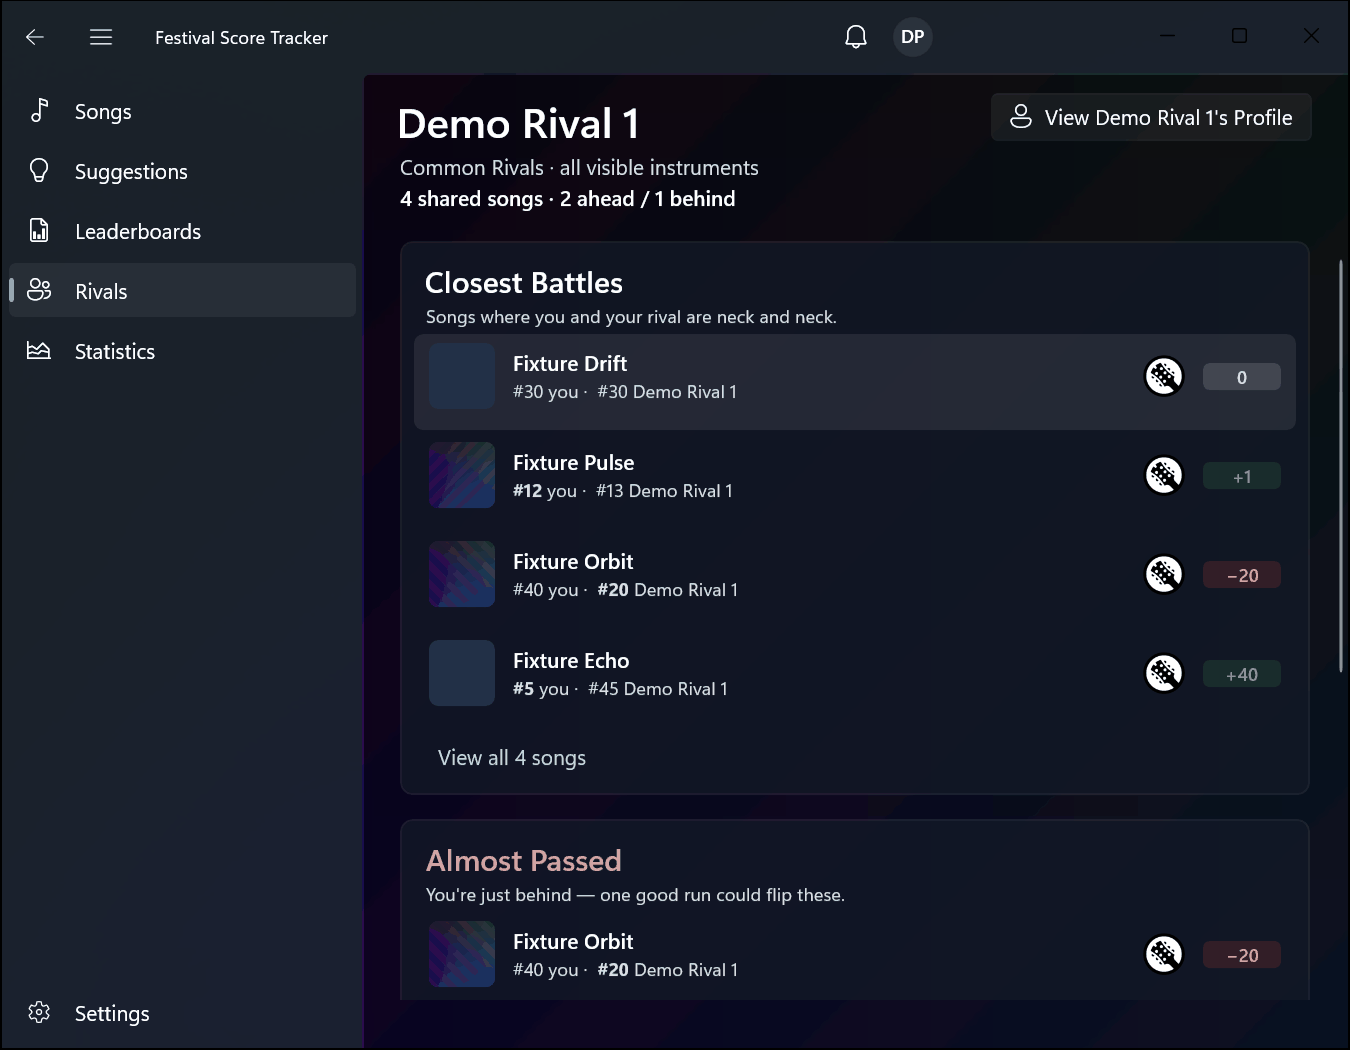
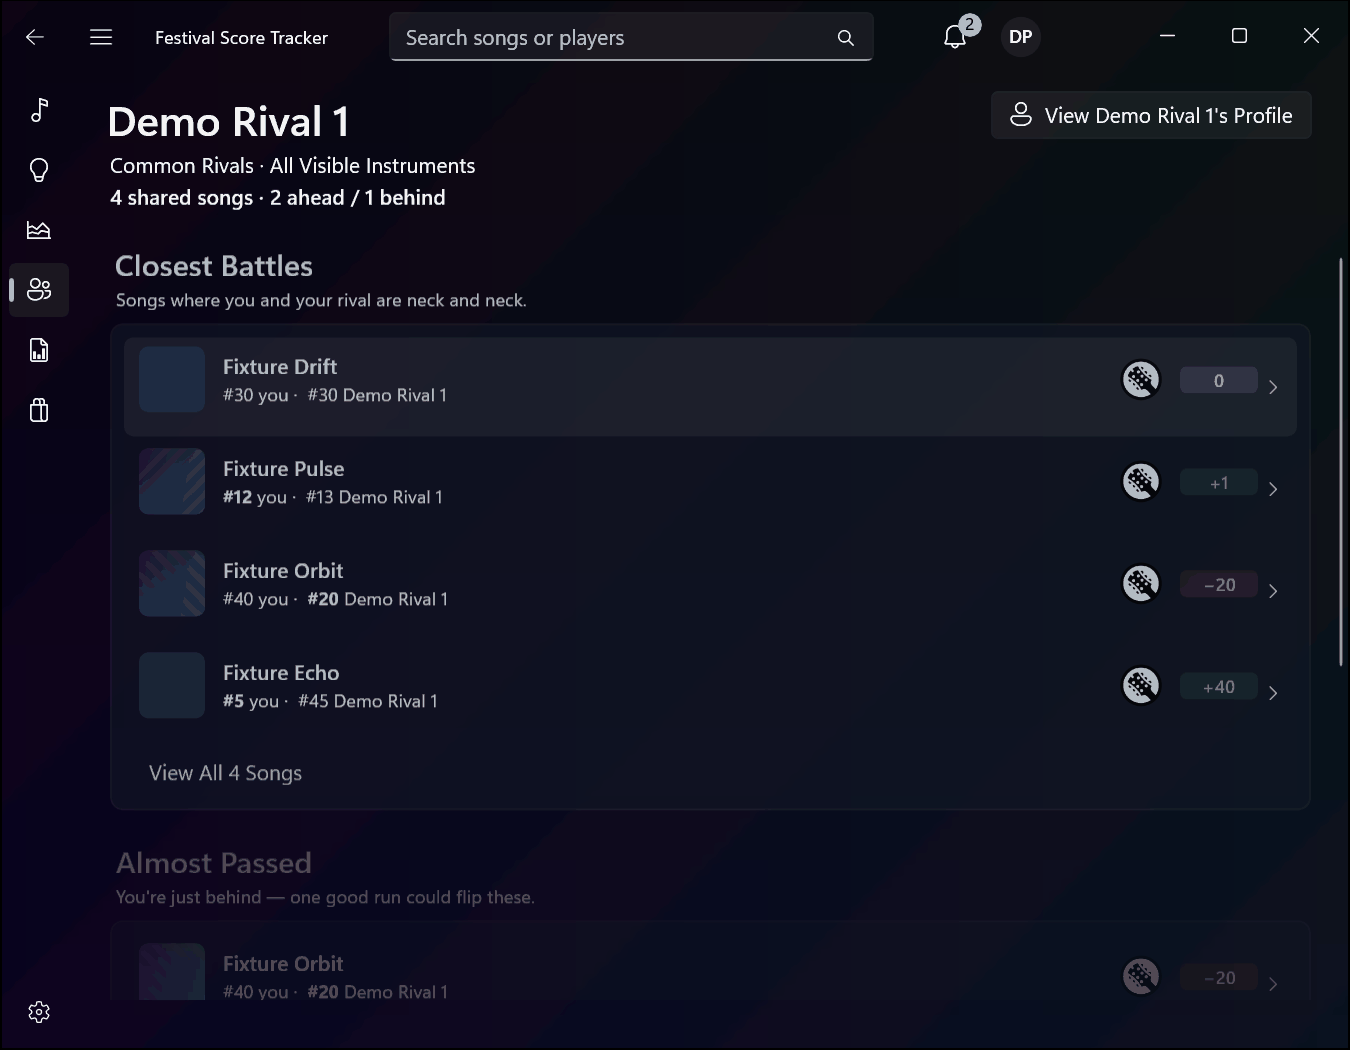
Windows Paths/Suggestions/Rivals: red Reset, in-card chevrons, Title Case (7.3, 7.10, 7.16)
Claude-Session: https://claude.ai/code/session_01M7chxMRa5N8j2VVNsjU9cZ

diff --git a/windows/Festival.App/Pages/SuggestionsPage.xaml b/windows/Festival.App/Pages/SuggestionsPage.xaml
@@ -119,8 +119,25 @@
                             </ScrollViewer>
                             <!-- Switches apply live; Reset restores the defaults. Light dismiss / Esc closes. -->
                             <Grid Grid.Row="2" Padding="16,12,16,16" BorderThickness="0,1,0,0" BorderBrush="{ThemeResource FSTCardStrokeBrush}">
+                                <!-- Web Modal reset: a full-width red (btnDanger #C62828) button (batch 7.10). -->
                                 <Button Content="Reset" HorizontalAlignment="Stretch" Command="{x:Bind ViewModel.FilterDraft.ResetCommand}"
-                                        AutomationProperties.AutomationId="fst.suggestions.filter.reset" />
+                                        AutomationProperties.Name="Reset Suggestion Filters"
+                                        AutomationProperties.AutomationId="fst.suggestions.filter.reset">
+                                    <Button.Resources>
+                                        <SolidColorBrush x:Key="ButtonBackground" Color="#FFC62828" />
+                                        <SolidColorBrush x:Key="ButtonBackgroundPointerOver" Color="#FFD84343" />
+                                        <SolidColorBrush x:Key="ButtonBackgroundPressed" Color="#FFA82020" />
+                                        <SolidColorBrush x:Key="ButtonBackgroundDisabled" Color="#59C62828" />
+                                        <SolidColorBrush x:Key="ButtonForeground" Color="#FFFFFFFF" />
+                                        <SolidColorBrush x:Key="ButtonForegroundPointerOver" Color="#FFFFFFFF" />
+                                        <SolidColorBrush x:Key="ButtonForegroundPressed" Color="#E6FFFFFF" />
+                                        <SolidColorBrush x:Key="ButtonForegroundDisabled" Color="#99FFFFFF" />
+                                        <SolidColorBrush x:Key="ButtonBorderBrush" Color="#FFC62828" />
+                                        <SolidColorBrush x:Key="ButtonBorderBrushPointerOver" Color="#FFD84343" />
+                                        <SolidColorBrush x:Key="ButtonBorderBrushPressed" Color="#FFA82020" />
+                                        <SolidColorBrush x:Key="ButtonBorderBrushDisabled" Color="Transparent" />
+                                    </Button.Resources>
+                                </Button>
                             </Grid>
                         </Grid>
                     </Flyout>

diff --git a/windows/Festival.App/Controls/RivalSongRowView.xaml b/windows/Festival.App/Controls/RivalSongRowView.xaml
@@ -13,6 +13,10 @@
             <RowDefinition Height="Auto" />
             <RowDefinition Height="Auto" />
         </Grid.RowDefinitions>
+        <Grid.ColumnDefinitions>
+            <ColumnDefinition Width="*" />
+            <ColumnDefinition Width="Auto" />
+        </Grid.ColumnDefinitions>
 
         <Grid ColumnSpacing="12">
             <Grid.ColumnDefinitions>
@@ -85,5 +89,8 @@
                 <TextBlock Text="{x:Bind Item.RivalScoreText, Mode=OneWay}" Style="{StaticResource CaptionTextBlockStyle}" HorizontalAlignment="Right" />
             </StackPanel>
         </Grid>
+        <!-- In-card chevron: the row opens a page (batch 7.3). -->
+        <FontIcon Grid.Column="1" Glyph="&#xE76C;" FontSize="12" VerticalAlignment="Center" Margin="4,0,0,0"
+                  Foreground="{ThemeResource FSTSecondaryTextBrush}" AutomationProperties.AccessibilityView="Raw" Grid.RowSpan="2" />
     </Grid>
 </UserControl>

diff --git a/windows/Festival.App/Pages/RivalsPage.xaml b/windows/Festival.App/Pages/RivalsPage.xaml
@@ -83,9 +83,9 @@
                     </SelectorBarItem>
                 </SelectorBar>
                 <ComboBox ItemsSource="{x:Bind ViewModel.MetricLabels}" SelectedIndex="{x:Bind ViewModel.MetricIndex, Mode=TwoWay}"
-                          VerticalAlignment="Center" MinWidth="150" Header="{x:Null}" PlaceholderText="Rank by"
+                          VerticalAlignment="Center" MinWidth="150" Header="{x:Null}" PlaceholderText="Rank By"
                           Visibility="{x:Bind ViewModel.ShowMetricPicker, Mode=OneWay}"
-                          AutomationProperties.Name="Rank by" AutomationProperties.AutomationId="fst.rivals.rankBy" />
+                          AutomationProperties.Name="Rank By" AutomationProperties.AutomationId="fst.rivals.rankBy" />
                 <controls:QuickLinksMenuButton x:Name="QuickLinksMenu" />
             </controls:WrapPanel>
         </Grid>

diff --git a/windows/Festival.App/Pages/RivalryPage.xaml b/windows/Festival.App/Pages/RivalryPage.xaml
@@ -45,7 +45,7 @@
             <StackPanel x:Name="Actions" Grid.Column="1" Orientation="Horizontal" Spacing="8" VerticalAlignment="Top">
                 <ComboBox ItemsSource="{x:Bind ViewModel.SortLabels}" SelectedIndex="{x:Bind ViewModel.SortIndex, Mode=TwoWay}"
                           MinWidth="170" Visibility="{x:Bind ViewModel.ShowContent, Mode=OneWay}"
-                          AutomationProperties.Name="Sort songs" AutomationProperties.AutomationId="fst.rivalry.sort" />
+                          AutomationProperties.Name="Sort Songs" AutomationProperties.AutomationId="fst.rivalry.sort" />
                 <Button Click="OnViewProfile" AutomationProperties.Name="{x:Bind ViewModel.ViewProfileLabel, Mode=OneWay}"
                         AutomationProperties.AutomationId="fst.rivalry.view-profile">
                     <StackPanel Orientation="Horizontal" Spacing="8">

diff --git a/windows/Festival.App/Controls/SongPathsView.xaml b/windows/Festival.App/Controls/SongPathsView.xaml
@@ -110,7 +110,7 @@
                 <Grid x:Name="TableHeader" Padding="13,4,25,4" ColumnSpacing="10" AutomationProperties.AccessibilityView="Raw" />
                 <ScrollViewer Grid.Row="1" Padding="0,0,12,0">
                     <StackPanel Spacing="8">
-                        <TextBlock Text="Paths not available" Visibility="{x:Bind ViewModel.HasNoActivations, Mode=OneWay}"
+                        <TextBlock Text="Paths Not Available" Visibility="{x:Bind ViewModel.HasNoActivations, Mode=OneWay}"
                                    HorizontalAlignment="Center" Foreground="{ThemeResource FSTSecondaryTextBrush}" />
                         <ItemsRepeater x:Name="Activations" ItemsSource="{x:Bind ViewModel.Rows, Mode=OneWay}" ElementPrepared="OnActivationPrepared"
                                        controls:FadeIn.Stagger="True" controls:FadeIn.RowHeight="48"

diff --git a/windows/Festival.App/Controls/RivalRowView.xaml b/windows/Festival.App/Controls/RivalRowView.xaml
@@ -9,6 +9,7 @@
         <Grid.ColumnDefinitions>
             <ColumnDefinition Width="4" />
             <ColumnDefinition Width="*" />
+            <ColumnDefinition Width="Auto" />
         </Grid.ColumnDefinitions>
         <Border Width="4" CornerRadius="2" Margin="0,4" Background="{x:Bind local:RivalsUi.Accent(Item.IsWinning), Mode=OneWay}" />
         <Grid Grid.Column="1" RowSpacing="4" ColumnSpacing="8" VerticalAlignment="Center">
@@ -40,5 +41,8 @@
                 </Border>
             </local:WrapPanel>
         </Grid>
+        <!-- In-card chevron: the row opens a page (batch 7.3). -->
+        <FontIcon Grid.Column="2" Glyph="&#xE76C;" FontSize="12" VerticalAlignment="Center" Margin="4,0,0,0"
+                  Foreground="{ThemeResource FSTSecondaryTextBrush}" AutomationProperties.AccessibilityView="Raw" />
     </Grid>
 </UserControl>

diff --git a/windows/Festival.Core/ViewModels/RivalDetailViewModels.cs b/windows/Festival.Core/ViewModels/RivalDetailViewModels.cs
@@ -287,7 +287,7 @@ public sealed partial class AllRivalsViewModel : RivalPageViewModel
     /// <param name="session">Shared session.</param>
     /// <param name="route">Route with the scope.</param>
     public AllRivalsViewModel(FestivalSession session, AppRoute.AllRivals route)
-        : base(session, "all-rivals", "Rivals unavailable") => RouteScope = route.Scope;
+        : base(session, "all-rivals", "Rivals Unavailable") => RouteScope = route.Scope;
 
     /// <summary>Scope from the route (may be Settings-derived).</summary>
     public RivalScope RouteScope { get; }
@@ -389,7 +389,7 @@ public sealed record RivalCategoryItem(RivalCategory Category, List<RivalSongIte
     /// <summary>Web <c>rivals.detail.viewAll</c>.</summary>
     public string SeeAllText => Category.Songs.Count == 1
         ? "View 1 song"
-        : string.Create(CultureInfo.CurrentCulture, $"View all {Category.Songs.Count:N0} songs");
+        : string.Create(CultureInfo.CurrentCulture, $"View All {Category.Songs.Count:N0} Songs");
 
     /// <summary>UIA automation ID.</summary>
     public string AutomationId => "fst.rival-detail.category." + Category.Key;
@@ -408,7 +408,7 @@ public sealed partial class RivalDetailViewModel : RivalPageViewModel
     /// <param name="session">Shared session.</param>
     /// <param name="route">Route.</param>
     public RivalDetailViewModel(FestivalSession session, AppRoute.RivalDetail route)
-        : base(session, "rival-detail", "Rivals unavailable")
+        : base(session, "rival-detail", "Rivals Unavailable")
     {
         Route = route;
         rivalName = route.Name;
@@ -477,9 +477,9 @@ public static class RivalDetailText
     {
         RivalScope.Leaderboard l => $"{l.Instrument.Label()} · Leaderboard ({l.RankBy.Label()})",
         RivalScope.Combo c => $"{RivalCombo.Label(c.Token)}: {string.Join(", ", c.Instruments.Select(i => i.Label()))}",
-        RivalScope.Song s when s.IsCommon && s.Instruments.SequenceEqual(visible) => "Common Rivals · all visible instruments",
+        RivalScope.Song s when s.IsCommon && s.Instruments.SequenceEqual(visible) => "Common Rivals · All Visible Instruments",
         RivalScope.Song s => string.Join(", ", s.Instruments.Select(i => i.Label())),
-        _ => "All visible instruments",
+        _ => "All Visible Instruments",
     };
 }
 #endregion
@@ -494,7 +494,7 @@ public sealed partial class RivalryViewModel : RivalPageViewModel
     /// <param name="session">Shared session.</param>
     /// <param name="route">Route.</param>
     public RivalryViewModel(FestivalSession session, AppRoute.Rivalry route)
-        : base(session, "rivalry", "Rivals unavailable")
+        : base(session, "rivalry", "Rivals Unavailable")
     {
         Route = route;
         rivalName = route.Name;

diff --git a/windows/Festival.App/Controls/SuggestionSongRow.cs b/windows/Festival.App/Controls/SuggestionSongRow.cs
@@ -57,6 +57,7 @@ public sealed partial class SuggestionSongRow : Button
         root.ColumnDefinitions.Add(new ColumnDefinition { Width = new GridLength(ArtSize) });
         root.ColumnDefinitions.Add(new ColumnDefinition { Width = new GridLength(1, GridUnitType.Star) });
         root.ColumnDefinitions.Add(new ColumnDefinition { Width = GridLength.Auto });
+        root.ColumnDefinitions.Add(new ColumnDefinition { Width = GridLength.Auto });
         root.RowDefinitions.Add(new RowDefinition { Height = GridLength.Auto });
         root.RowDefinitions.Add(new RowDefinition { Height = GridLength.Auto });
         var artFrame = new Border
@@ -70,6 +71,16 @@ public sealed partial class SuggestionSongRow : Button
         root.Children.Add(artFrame);
         root.Children.Add(text);
         root.Children.Add(metadata);
+        // In-card chevron: the row opens Song Detail (batch 7.3).
+        var chevron = new FontIcon
+        {
+            Glyph = "\uE76C", FontSize = 12, VerticalAlignment = VerticalAlignment.Center, Margin = new Thickness(12, 0, 0, 0),
+            Foreground = (Brush)Application.Current.Resources["FSTSecondaryTextBrush"],
+        };
+        AutomationProperties.SetAccessibilityView(chevron, Microsoft.UI.Xaml.Automation.Peers.AccessibilityView.Raw);
+        Grid.SetColumn(chevron, 3);
+        Grid.SetRowSpan(chevron, 2);
+        root.Children.Add(chevron);
         Content = root;
 
         title.TextStyle = TitleStyle;

diff --git a/windows/Festival.Core/ViewModels/RivalsViewModels.cs b/windows/Festival.Core/ViewModels/RivalsViewModels.cs
@@ -96,7 +96,7 @@ public sealed partial class RivalSectionViewModel : ObservableObject
         Icon = icon;
         ViewAllRoute = new AppRoute.AllRivals(scope);
         this.load = load;
-        Status = new ServiceStatusViewModel("rivals:" + id, title + " unavailable", () => LoadAsync(), time);
+        Status = new ServiceStatusViewModel("rivals:" + id, title + " Unavailable", () => LoadAsync(), time);
     }
 
     /// <summary>Stable section ID.</summary>
@@ -115,10 +115,10 @@ public sealed partial class RivalSectionViewModel : ObservableObject
     public string IconFile => Icon?.IconFile() ?? "";
 
     /// <summary>Accessible name of the See All link.</summary>
-    public string SeeAllName => "See all " + Title;
+    public string SeeAllName => "See All " + Title;
 
     /// <summary>Accessible name of the View All Rivals button below the rows (distinct from the header link).</summary>
-    public string ViewAllName => "View all " + Title;
+    public string ViewAllName => "View All " + Title;
 
     /// <summary>All Rivals route for this scope.</summary>
     public AppRoute.AllRivals ViewAllRoute { get; }

diff --git a/windows/Festival.Core/ViewModels/SongPathsViewModel.cs b/windows/Festival.Core/ViewModels/SongPathsViewModel.cs
@@ -28,7 +28,7 @@ public sealed partial class SongPathsViewModel : ObservableObject
         Instruments = [.. instruments];
         InstrumentLabels = [.. instruments.Select(i => i.Label())];
         showText = session.Settings.PathDefaultView == PathDisplayMode.Text;
-        Status = new ServiceStatusViewModel($"paths:{song.SongId}", "Path unavailable", LoadAsync, session.Time);
+        Status = new ServiceStatusViewModel($"paths:{song.SongId}", "Path Unavailable", LoadAsync, session.Time);
         ShowWarning = session.Settings.VisibleInstruments.Contains(Instrument.Karaoke) && !session.Settings.PathUnavailableWarningDismissed &&
                       !session.PathNoticeShown;
         if (ShowWarning) session.PathNoticeShown = true;

diff --git a/windows/Festival.Core/ViewModels/SuggestionsViewModel.cs b/windows/Festival.Core/ViewModels/SuggestionsViewModel.cs
@@ -99,7 +99,7 @@ public sealed partial class SuggestionsViewModel : ObservableObject
         this.store = store;
         this.seeds = seeds ?? (() => (uint)Random.Shared.NextInt64(0, uint.MaxValue + 1L));
         filter = store.Load();
-        Status = new ServiceStatusViewModel("suggestions", "Suggestions unavailable", () => LoadAsync(force: true), session.Time);
+        Status = new ServiceStatusViewModel("suggestions", "Suggestions Unavailable", () => LoadAsync(force: true), session.Time);
         FilterDraft = new SuggestionsFilterDraft(this);
         session.PropertyChanged += OnSessionChanged;
         phase = session.HasPlayer ? SuggestionsPhase.Loading : SuggestionsPhase.NoPlayer;

diff --git a/windows/Festival.App/Controls/SongPathsView.xaml.cs b/windows/Festival.App/Controls/SongPathsView.xaml.cs
@@ -84,7 +84,7 @@ public sealed partial class SongPathsView : UserControl
                 Title = "Some Instruments Unavailable",
                 Content = "Karaoke is not available for path visualization yet.",
                 PrimaryButtonText = "OK",
-                SecondaryButtonText = "Don't show again",
+                SecondaryButtonText = "Don't Show Again",
                 DefaultButton = ContentDialogButton.Primary,
                 RequestedTheme = ElementTheme.Dark,
             };
